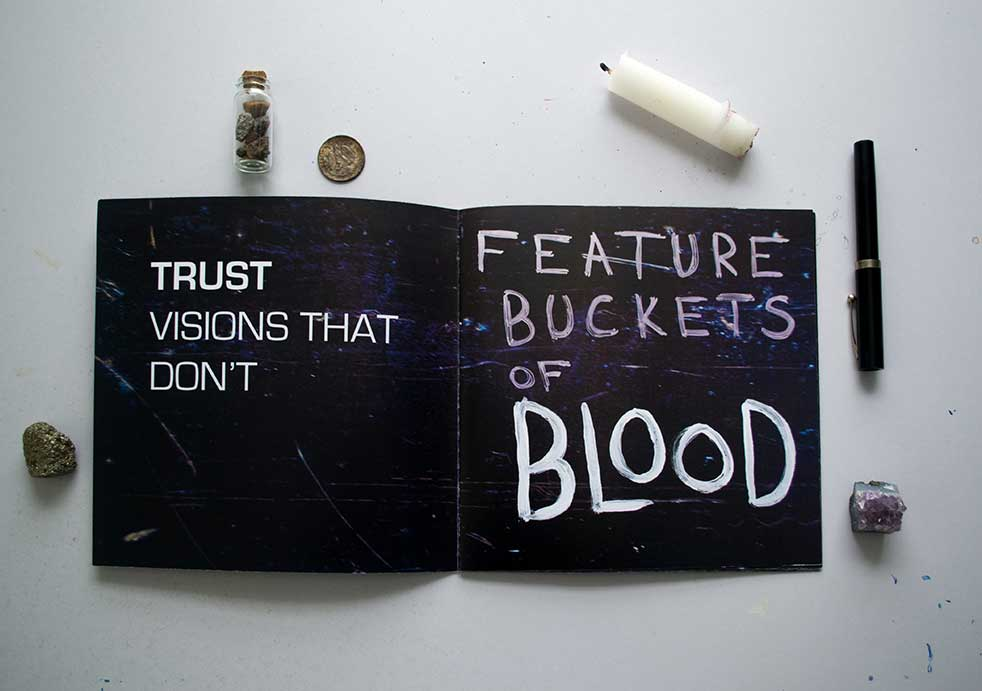
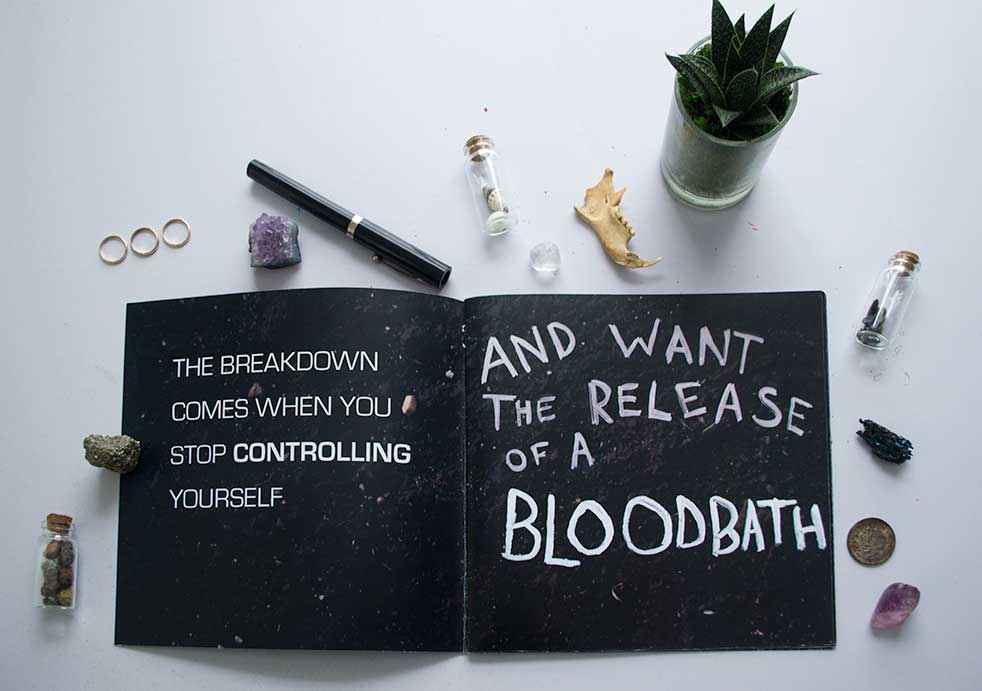
added in new photo for quote book
changed thumbnail for record
added in current tag for record

diff --git a/index.html b/index.html
@@ -6,7 +6,7 @@ layout: default
 <div class="grid">
 	<div class="unit unit-xs-1 title-align pad-t">
 		<h1>Graphic Designer &amp; Writer</h1>
-			<p>I'm graduating from Algonquin College in 2016, curently looking for an internship. I'm fond of colours that are way too bright, science fiction, and making sure group projects are fair.
+			<p>I'm graduating from Algonquin College in 2016, currently looking for an internship. I'm fond of colours that are way too bright, science fiction, and making sure group projects are fair.
 		</p>
 	</div>
 </div>
@@ -18,7 +18,7 @@ layout: default
 
 	<div class="unit unit-xs-1 unit-s-1 unit-m-1-3 unit-l-1-3 island-1-4">
 		<a class="ptf-img-lnk img-link" href="{{site.baseurl}}{{ post.url }}">
-			<img class="img-flex" src="https://cdn.rawgit.com/sky-bones/portfolio/414ae48e8c8d06bd8ac682c910f1a1deade910ee/img/thumbs/{{post.imagename}}" alt="{{site.baseurl}}{{post.thumbalt}}">
+			<img class="img-flex" src="https://cdn.rawgit.com/sky-bones/portfolio/319cb72f54def5889562a1694056a36048269370/img/thumbs/{{post.imagename}}" alt="{{site.baseurl}}{{post.thumbalt}}">
 
 				<div class="overlay">
 					<h3>{{ post.title }}</h3>

diff --git a/_layouts/default.html b/_layouts/default.html
@@ -59,7 +59,8 @@
 		<ul>
 			<li><a href="/" {% if page.url == '/' %} class="current" {% endif %}>Home</a></li>
 
-			<li><a href="/accursed" {% if page.url == '/accursed' %} class="current"
+			<li><a href="/record" {% if page.url == '/record' %} class="current"
+			{% if page.url == '/accursed' %} class="current"
 				{% else %}
 					{% if page.url == '/big-red' %} class="current"
 						{% else %}
@@ -75,6 +76,7 @@
 								{% endif %}
 						{% endif %}
 				{% endif %}
+			{% endif %}
 		{% endif %} >Portfolio</a></li>
 
 			<li><a href="/contact" {% if page.url == '/contact' %} class="current" {% endif %} >About</a></li>
